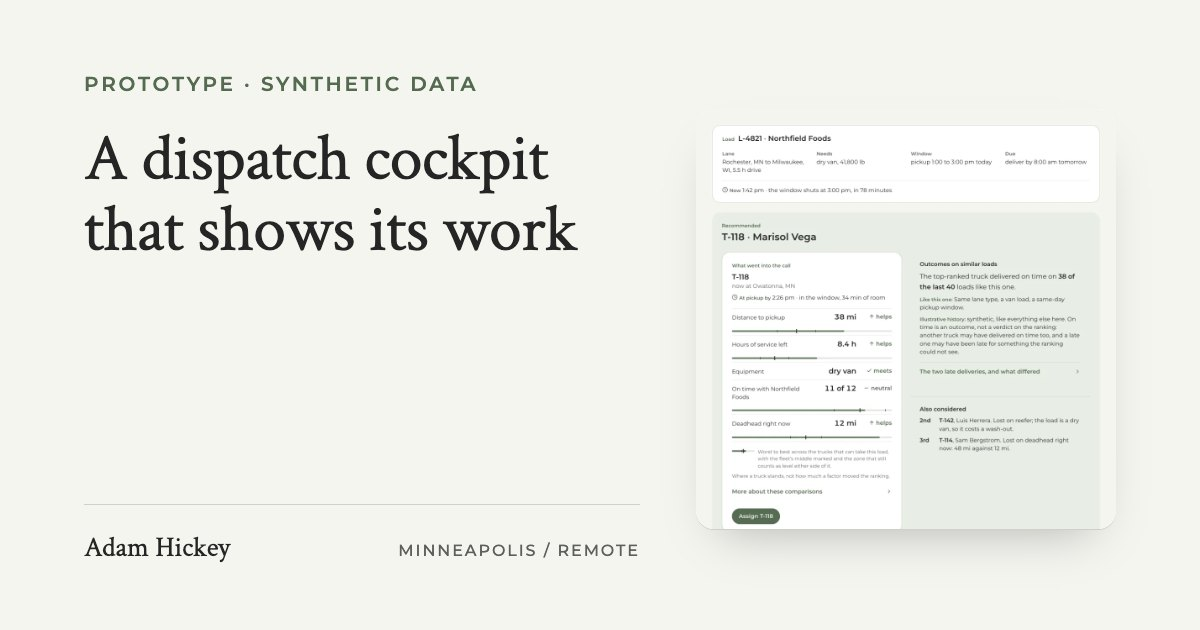
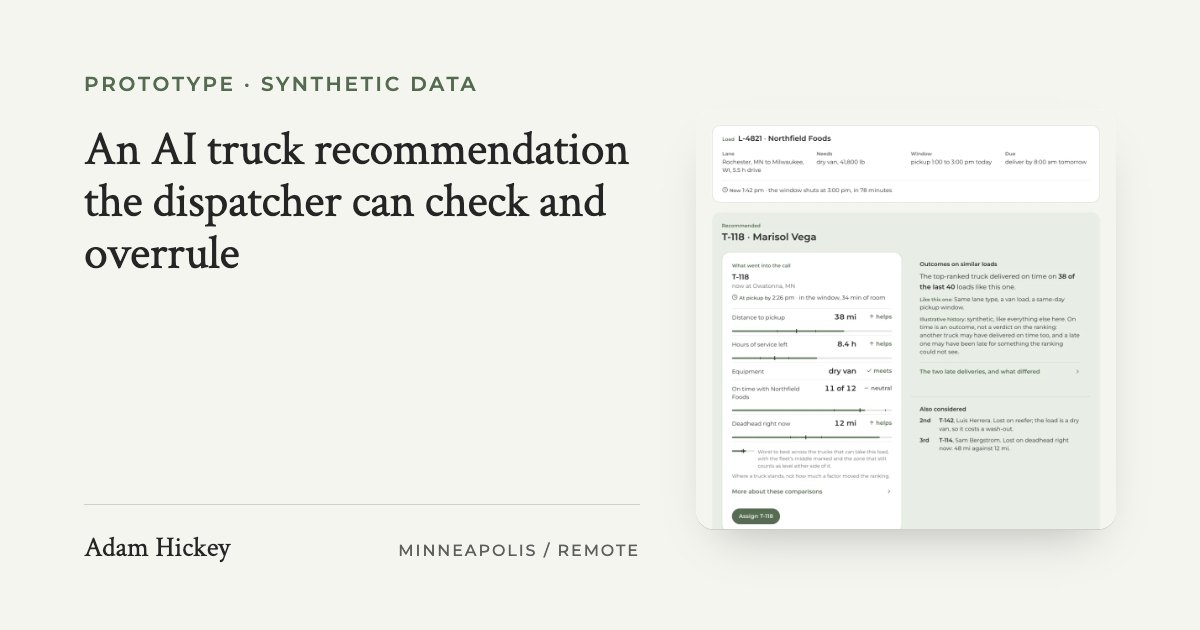
The prototype is titled for what it does, and the homepage card says it is not client work
"A dispatch cockpit that shows its work" named the object and not the
idea. The page, its card, its share card, llms.txt and the five links
into it now read "An AI truck recommendation the dispatcher can check
and overrule", which is the whole of the prototype in one line: the AI
names a truck, the dispatcher can see why, and the dispatcher can say
no.

The homepage card's description opens on "An independent prototype,
not client work", which the comment above the card promised and the
copy had stopped saying. The share card is re-rendered from the
registry with the new title; no date stamp moved, since every page
touched was already stamped today.

Changed region(s): [[0.0617, 0.2111, 0.5242, 0.4222]]

diff --git a/prototype/dispatch-cockpit.html b/prototype/dispatch-cockpit.html
@@ -11,12 +11,12 @@
   </script>
   <meta charset="utf-8" />
   <meta name="viewport" content="width=device-width, initial-scale=1" />
-  <title>A dispatch cockpit that shows its work | Adam Hickey</title>
+  <title>An AI truck recommendation the dispatcher can check and overrule | Adam Hickey</title>
   <meta name="description" content="A self-directed prototype of an AI truck recommendation for freight dispatch, on synthetic data: the factors weighed and where each one stands, outcomes from similar loads instead of a confidence percentage, a one-click override that asks why afterwards, and the whole fleet always in reach." />
   <link rel="canonical" href="https://adamhickey.com/prototype/dispatch-cockpit.html" />
   <meta property="og:type" content="article" />
   <meta property="og:url" content="https://adamhickey.com/prototype/dispatch-cockpit.html" />
-  <meta property="og:title" content="A dispatch cockpit that shows its work | Adam Hickey" />
+  <meta property="og:title" content="An AI truck recommendation the dispatcher can check and overrule | Adam Hickey" />
   <meta property="og:description" content="A self-directed prototype of an AI truck recommendation for freight dispatch, on synthetic data: the factors weighed and where each one stands, outcomes from similar loads instead of a confidence percentage, a one-click override that asks why afterwards, and the whole fleet always in reach." />
   <meta property="og:image" content="https://adamhickey.com/img/og/dispatch-cockpit.jpg?v=8" />
   <meta property="og:image:width" content="1200" />
@@ -34,7 +34,7 @@
         {
           "@type": "Article",
           "@id": "https://adamhickey.com/prototype/dispatch-cockpit.html#article",
-          "headline": "A dispatch cockpit that shows its work",
+          "headline": "An AI truck recommendation the dispatcher can check and overrule",
           "description": "A self-directed prototype of an AI truck recommendation for freight dispatch, on synthetic data: the factors weighed and where each one stands, outcomes from similar loads instead of a confidence percentage, a one-click override that asks why afterwards, and the whole fleet always in reach.",
           "url": "https://adamhickey.com/prototype/dispatch-cockpit.html",
           "mainEntityOfPage": "https://adamhickey.com/prototype/dispatch-cockpit.html",
@@ -85,7 +85,7 @@
             {
               "@type": "ListItem",
               "position": 3,
-              "name": "A dispatch cockpit that shows its work",
+              "name": "An AI truck recommendation the dispatcher can check and overrule",
               "item": "https://adamhickey.com/prototype/dispatch-cockpit.html"
             }
           ]
@@ -263,7 +263,7 @@
         <div class="ckw-hero-grid">
           <div class="ckw-hero-copy">
             <p class="case-kicker">Human&ndash;AI interaction &middot; working prototype &middot; synthetic data</p>
-            <h1 class="case-title ckw-hero-title">A dispatch cockpit that shows its work</h1>
+            <h1 class="case-title ckw-hero-title">An AI truck recommendation the dispatcher can check and overrule</h1>
             <p class="ckw-hero-dek">A truck recommendation is only useful when a dispatcher can judge it. This prototype puts the reasons, the outcome record and the whole fleet beside the recommendation, and leaves the call with the person doing the work.</p>
             <!-- The Listen control goes under this row rather than under the
                  dek, which is where read-aloud.js puts it unasked: the dek and

diff --git a/index.html b/index.html
@@ -559,13 +559,13 @@
                be mistaken for an account of delivered work. Excluded from the
                hero morph in setupCaseMorph -- the prototype page has no
                case-hero to morph into. -->
-          <a class="case-card case-card--prototype reveal" href="prototype/dispatch-cockpit.html" aria-label="Open the prototype: A dispatch cockpit that shows its work">
+          <a class="case-card case-card--prototype reveal" href="prototype/dispatch-cockpit.html" aria-label="Open the prototype: An AI truck recommendation the dispatcher can check and overrule">
             <div class="case-thumb">
               <img decoding="async" loading="lazy" src="img/cockpit/slide-close-call.webp?v=5" alt="The cockpit on a close call: a card headed &ldquo;T-131 and T-118 are level. The tradeoff is faster pickup against more driver hours&rdquo;, a line saying the system is not ranking one over the other, and a comparison beneath it with Option A, T-131, against Option B, T-118. The two rows that separate them, distance to pickup and hours of service left, are raised on white and marked &ldquo;the tradeoff&rdquo;." width="1360" height="1020"/>
             </div>
             <div class="case-card-body">
-              <h3>A dispatch cockpit that shows its work</h3>
-              <p class="case-desc">A prototype showing how AI can recommend a truck, explain the tradeoffs, and leave the final decision to the dispatcher: the dispatch problem above, taken into the next era. Fictional data. Try it in about ninety seconds, with a mouse or keyboard.</p>
+              <h3>An AI truck recommendation the dispatcher can check and overrule</h3>
+              <p class="case-desc">An independent prototype, not client work: the dispatch problem above, taken into the next era. The AI names a truck and shows the factors, the tradeoffs and its record on similar loads; the dispatcher keeps the last word. Fictional data. Try it in about ninety seconds, with a mouse or keyboard.</p>
               <div class="tag-row">
                 <span class="tag">Human-AI interaction</span>
                 <span class="tag">Freight dispatch</span>

diff --git a/writing/what-microsofts-hax-framework-gets-right-about-enterprise-ai.html b/writing/what-microsofts-hax-framework-gets-right-about-enterprise-ai.html
@@ -375,7 +375,7 @@
              engagement it describes and the account it draws on. A text line
              rather than a pitch, for the same reason the case studies end on
              one. -->
-        <p class="build-service">The working version of this argument: <a href="../prototype/dispatch-cockpit.html">A dispatch cockpit that shows its work</a>, a self-directed prototype on synthetic data, where the factors, the record and the override are all on one screen. The account this draws on: <a href="../case-study/dispatch-complexity.html">One real-time view of a 450+ truck fleet</a>, the dispatch work at Midwest Couriers that the prototype is a separate exploration of. If you would rather buy this as a piece of work: <a href="../engagement/working-product-prototype.html">Working Product Prototype</a>.</p>
+        <p class="build-service">The working version of this argument: <a href="../prototype/dispatch-cockpit.html">An AI truck recommendation the dispatcher can check and overrule</a>, a self-directed prototype on synthetic data, where the factors, the record and the override are all on one screen. The account this draws on: <a href="../case-study/dispatch-complexity.html">One real-time view of a 450+ truck fleet</a>, the dispatch work at Midwest Couriers that the prototype is a separate exploration of. If you would rather buy this as a piece of work: <a href="../engagement/working-product-prototype.html">Working Product Prototype</a>.</p>
         <a class="build-next" href="enterprise-ai-should-help-people-decide-not-just-answer.html">
           <span class="build-next-eyebrow">Next</span>
           <span class="build-next-title">Enterprise AI should help people decide, not just answer &rarr;</span>

diff --git a/writing/enterprise-ai-should-help-people-decide-not-just-answer.html b/writing/enterprise-ai-should-help-people-decide-not-just-answer.html
@@ -386,7 +386,7 @@
              engagement it describes and the account it draws on. A text line
              rather than a pitch, for the same reason the case studies end on
              one. -->
-        <p class="build-service">The working version of this argument: <a href="../prototype/dispatch-cockpit.html">A dispatch cockpit that shows its work</a>, a self-directed prototype on synthetic data. The account this draws on: <a href="../case-study/lucy-learns.html">How I built Lucy Learns</a>, where a generated set was held to a question written before anyone looked at it, and a voice interface came out after eighteen days for a reason no accuracy figure would have surfaced. If you would rather buy this as a piece of work: <a href="../engagement/working-product-prototype.html">Working Product Prototype</a>.</p>
+        <p class="build-service">The working version of this argument: <a href="../prototype/dispatch-cockpit.html">An AI truck recommendation the dispatcher can check and overrule</a>, a self-directed prototype on synthetic data. The account this draws on: <a href="../case-study/lucy-learns.html">How I built Lucy Learns</a>, where a generated set was held to a question written before anyone looked at it, and a voice interface came out after eighteen days for a reason no accuracy figure would have surfaced. If you would rather buy this as a piece of work: <a href="../engagement/working-product-prototype.html">Working Product Prototype</a>.</p>
         <a class="build-next" href="what-should-a-working-prototype-actually-prove.html">
           <span class="build-next-eyebrow">Next</span>
           <span class="build-next-title">What should a working prototype actually prove? &rarr;</span>

diff --git a/engagement/working-product-prototype.html b/engagement/working-product-prototype.html
@@ -432,7 +432,7 @@
              the engagement's first weeks, done on an invented problem so it
              could be shown: a working interface, the argument around it, and
              what would be tested next. -->
-        <p>And one self-directed prototype, on synthetic data: <a href="../prototype/dispatch-cockpit.html">A dispatch cockpit that shows its work</a>, an AI recommendation built around what a dispatcher would need in order to skip checking it. Not client work, and labelled that way on the page; it is what the steps below produce, on an invented problem, and it works: the ranking is computed on the page, and the override asks why.</p>
+        <p>And one self-directed prototype, on synthetic data: <a href="../prototype/dispatch-cockpit.html">An AI truck recommendation the dispatcher can check and overrule</a>, an AI recommendation built around what a dispatcher would need in order to skip checking it. Not client work, and labelled that way on the page; it is what the steps below produce, on an invented problem, and it works: the ranking is computed on the page, and the override asks why.</p>
 
       </div>
     </section>

diff --git a/case-study/dispatch-complexity.html b/case-study/dispatch-complexity.html
@@ -247,7 +247,7 @@
         <a class="case-ask-link" href="../index.html#contact">Start a conversation &rarr;</a>
       </div>
       <p class="case-closing-service">The reframing this project opened with is the first move in <a href="../engagement/product-clarity.html">how I turn ambiguity into a decision</a>.</p>
-      <a href="../prototype/dispatch-cockpit.html" class="case-closing-next"><span class="case-closing-next-eyebrow">Next, the prototype</span><span class="case-closing-next-title">A dispatch cockpit that shows its work &rarr;</span></a>
+      <a href="../prototype/dispatch-cockpit.html" class="case-closing-next"><span class="case-closing-next-eyebrow">Next, the prototype</span><span class="case-closing-next-title">An AI truck recommendation the dispatcher can check and overrule &rarr;</span></a>
     </div>
   </section>
 
